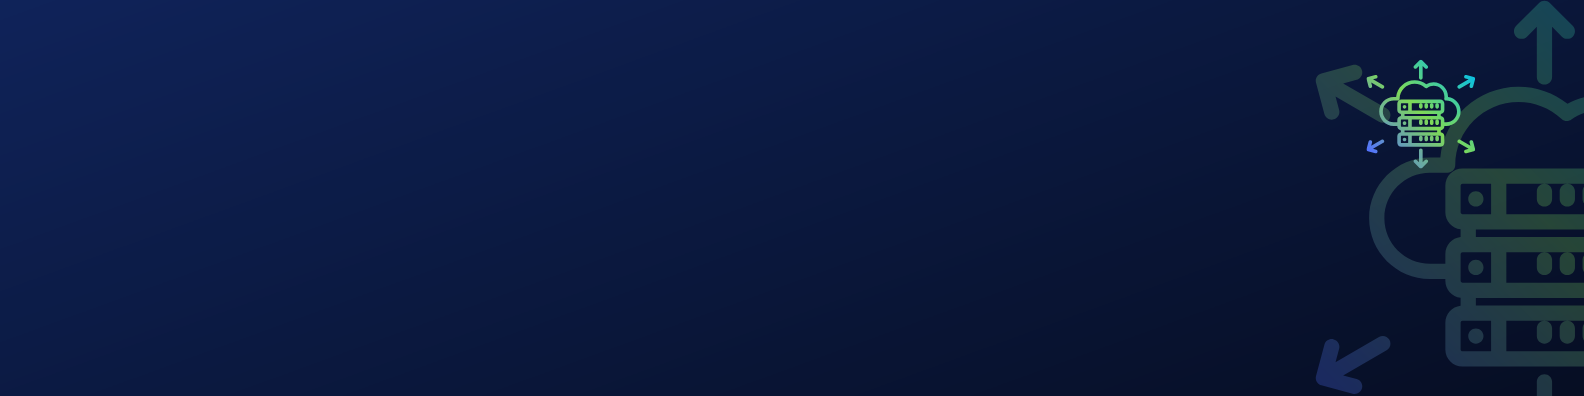
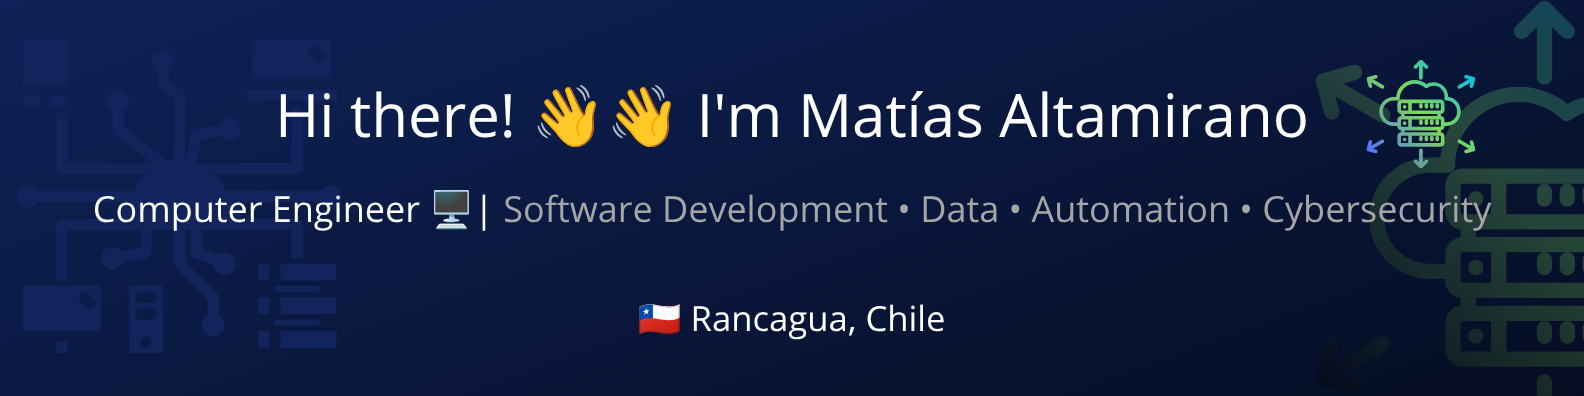
Arreglo en la imagen e información
Se arreglo la imagen de fondo, se quito información no relevante

diff --git a/README.md b/README.md
@@ -1,13 +1,5 @@
 <div align="center">
-
 <img src="Fondo GitHub.png" width="100% "/>
-  
-# Hi there! 👋 I'm Matías Altamirano
-
-### Computer Engineer | Software Development • Data • Automation • Cybersecurity
-
-🇨🇱 Rancagua, Chile
-
 </div>
 
 ---
@@ -20,11 +12,11 @@ I enjoy learning new technologies, solving problems, and building practical solu
 
 ---
 
-## 🛠 Technologies & Tools
+## 🛠 Technologies & Tools 
 
 **Languages**
 
-JavaScript · TypeScript · Python · Java · C# · C · SQL
+JavaScript · TypeScript · Python · Java · C# · C · Visual Basics
 
 **Development**
 
@@ -41,13 +33,6 @@ Git · GitHub · Docker · Kubernetes · Postman · AWS
 **Data & Microsoft**
 
 Power BI · Power Apps · SharePoint · Microsoft 365
-
----
-
-
-## 🌱 Currently Learning
-
-Python · Data Analytics · Business Intelligence · AI · Cybersecurity
 
 ---
 
